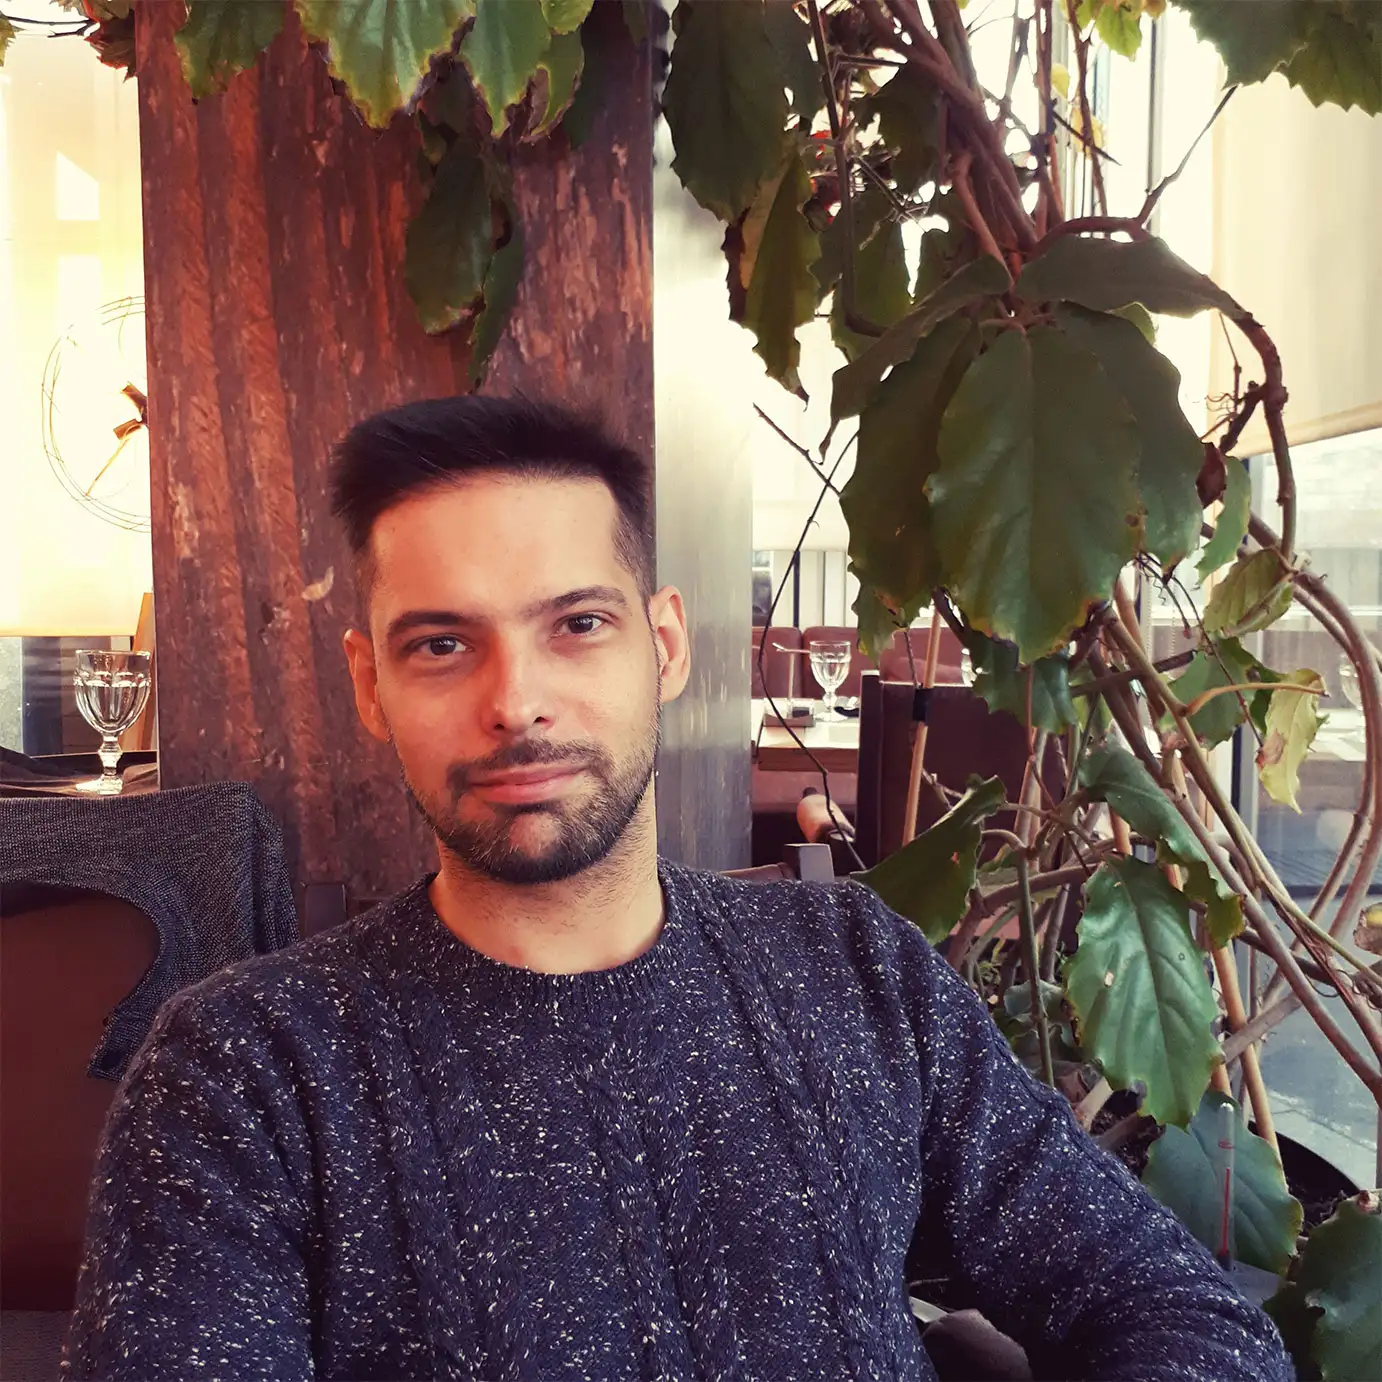
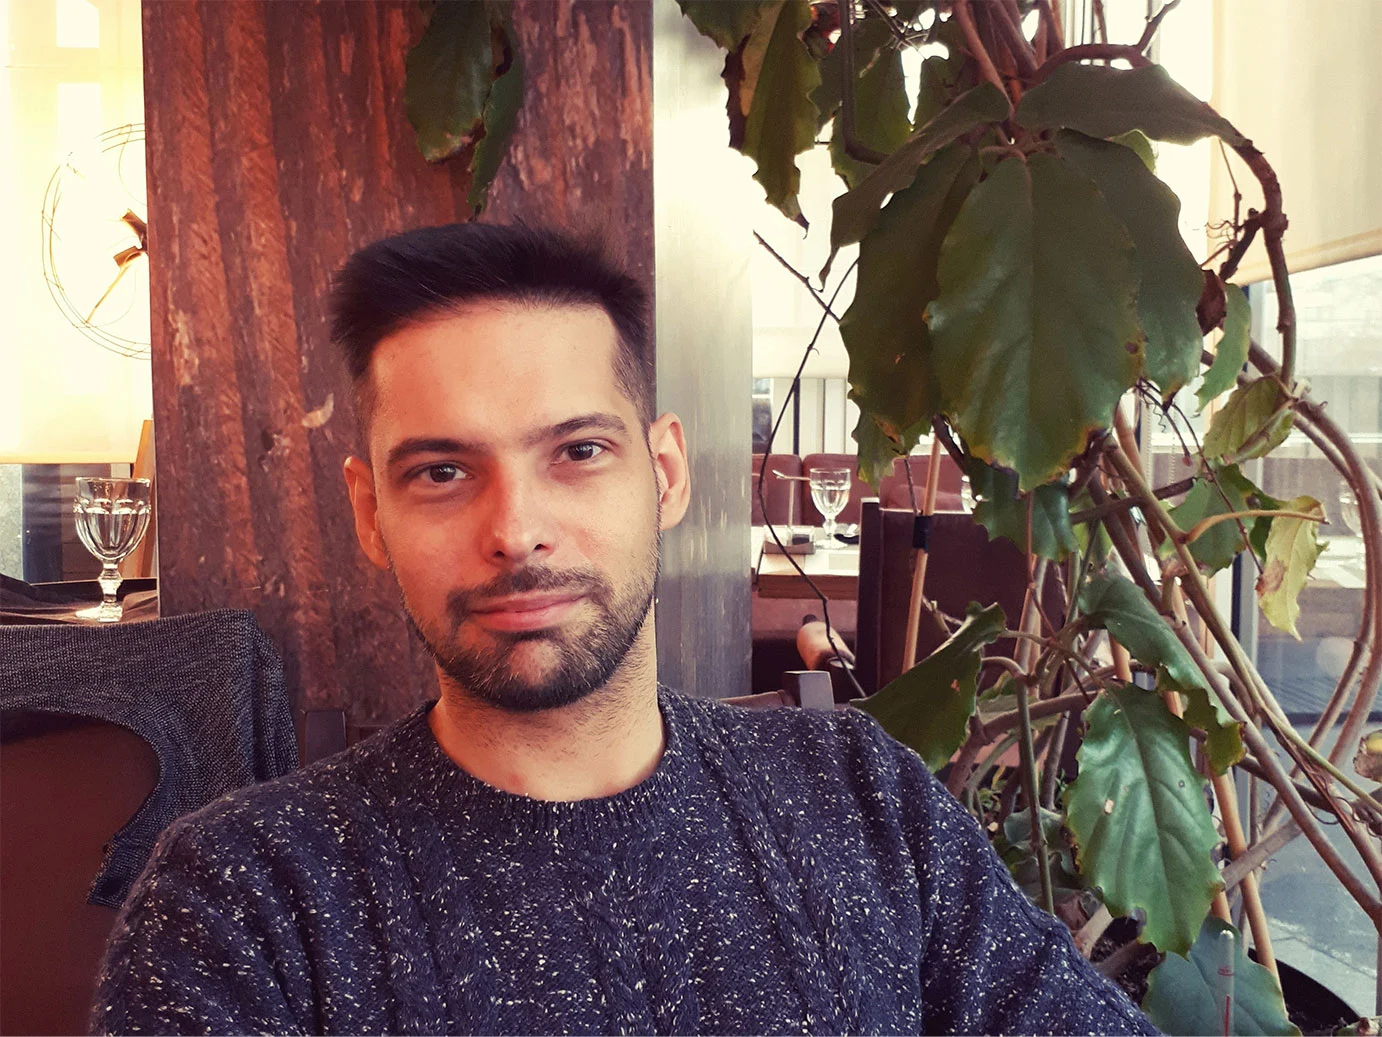
Decrease my photo

diff --git a/about/index.html b/about/index.html
@@ -23,7 +23,7 @@
 <p>Hi! I'm Vladimir, and I really like delicious coffee.</p>
 <picture>
     <source sizes="(max-width: 1382px) 100vw, 1382px" srcset="/src/images/vladimir-specialty-coffee-lover-assets-296.webp 296w,/src/images/vladimir-specialty-coffee-lover-assets-592.webp 592w,/src/images/vladimir-specialty-coffee-lover-assets-691.webp 691w,/src/images/vladimir-specialty-coffee-lover-assets-888.webp 888w,/src/images/vladimir-specialty-coffee-lover-assets-1382.webp 1382w,/src/images/vladimir-specialty-coffee-lover-assets-2073.webp 2073w" type="image/webp">
-    <img class="img-fluid" width="691" height="691" srcset="/src/images/vladimir-specialty-coffee-lover-assets-296.jpg 296w,/src/images/vladimir-specialty-coffee-lover-assets-592.jpg 592w,/src/images/vladimir-specialty-coffee-lover-assets-691.jpg 691w,/src/images/vladimir-specialty-coffee-lover-assets-888.jpg 888w,/src/images/vladimir-specialty-coffee-lover-assets-1382.jpg 1382w,/src/images/vladimir-specialty-coffee-lover-assets-2073.jpg 2073w" src="vladimir-specialty-coffee-lover-assets-296.jpg" alt="Vladimir is a specialty coffee lover" title="Vladimir is a specialty coffee lover">
+    <img class="img-fluid" width="691" height="518" srcset="/src/images/vladimir-specialty-coffee-lover-assets-296.jpg 296w,/src/images/vladimir-specialty-coffee-lover-assets-592.jpg 592w,/src/images/vladimir-specialty-coffee-lover-assets-691.jpg 691w,/src/images/vladimir-specialty-coffee-lover-assets-888.jpg 888w,/src/images/vladimir-specialty-coffee-lover-assets-1382.jpg 1382w,/src/images/vladimir-specialty-coffee-lover-assets-2073.jpg 2073w" src="vladimir-specialty-coffee-lover-assets-296.jpg" alt="Vladimir is a specialty coffee lover" title="Vladimir is a specialty coffee lover">
 </picture>
 
 <p>Therefore, I made a website so coffee lovers could easily find the nearest Specialty coffee shop in Cyprus. I have visited every coffee shop and confirmed the excellent taste of coffee.</p>
